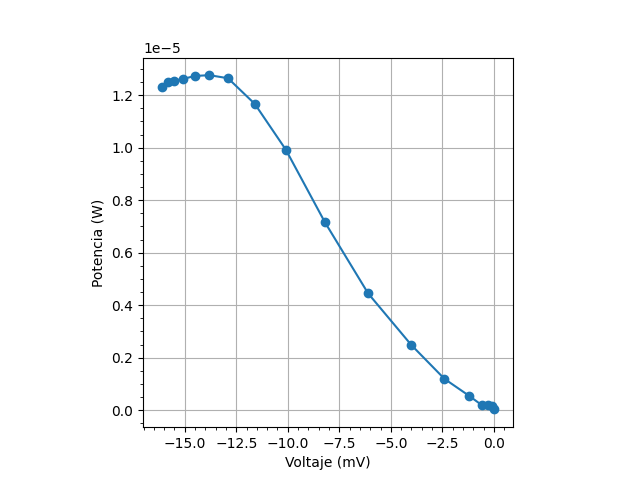
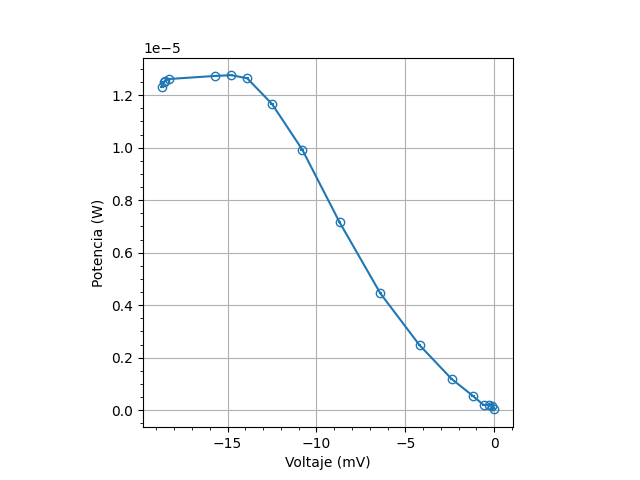
Fin lab P3

diff --git a/P3/P3.py b/P3/P3.py
@@ -3,45 +3,20 @@ import matplotlib.pyplot as plt
 from var import *
 from data_management import *
 
-M = """9829	38	120.5	4
-9664	44.9	108.2	3
-9308	39.1	107.6	3
-9004	54.3	127	3
-8731	44	123	3
-8425	65	121.7	2
-8202	52.5	112.7	2
-7984	70.8	105.2	1
-7763	59.2	96	1
-7586	42.1	123.6	2"""
+path = "P3/"
 
-"""
-M = text2dataframe(M)
-M = M.to_numpy()
-
-w = var(M[:,0], 1, "$\omega$", "MHz", str_format = "{:.1f}") # MHz
-w.redefine(lambda x: 2*np.pi*x[0])
-# w = f_var(lambda x: 2*np.pi*x[0], [f]) # 1e6 rad/s
-z_max = var(M[:,1], 0.2) # mm
-z_min = var(M[:,2], 0.2) # mm
-
-N = var(M[:,3], 0, str_format = "{:.0f}")
-
-# print(var2ipython_latex([w, z_min, z_max, N]).replace("\\", "\\\\"))
-print(var2ipython_latex([w, z_min, z_max, N]))
-"""
-
-M = """9	16.1	-19.09	0.01
-8.75	15.8	-19.03	0.01
-8.5	15.5	-19.01	0.01
-8.25	15.1	-18.99	0.01
-8	14.5	-18.95	0.01
-7.75	13.8	-18.94	0.01
-7.5	12.9	-18.98	0.01
-7.25	11.6	-19.33	0.01
-7	10.1	-20.03	0.01
-6.75	8.2	-21.45	0.03
-6.5	6.1	-23.52	0.03
-6.25	4	-26.06	0.03
+M = """9	18.7	-19.09	0.01
+8.75	18.6	-19.03	0.01
+8.5	18.5	-19.01	0.01
+8.25	18.3	-18.99	0.01
+8	15.7	-18.95	0.01
+7.75	14.8	-18.94	0.01
+7.5	13.9	-18.98	0.01
+7.25	12.5	-19.33	0.01
+7	10.8	-20.03	0.01
+6.75	8.7	-21.45	0.03
+6.5	6.4	-23.52	0.03
+6.25	4.2	-26.06	0.03
 6	2.4	-29.23	0.03
 5.75	1.2	-32.63	0.03
 5.5	0.6	-37	1
@@ -55,21 +30,23 @@ M = M.to_numpy()
 x = var(M[:,0], 0.01, "Posición atenuador", "u.a.")
 V = var(M[:,1], 0.1, "Voltaje", "mV")
 V.redefine(lambda x: -x[0])
-P_dB = var(M[:,2], M[:,3], "Potencia", "dbm")
-P = f_var(lambda x: 10**((x[0]/10)-3), [P_dB], "Potencia", "W")
+V.show()
+P_dB = var(M[:,2], M[:,3], "Potencia", "dBm")
+# P = f_var(lambda x: 10**((x[0]/10)-3), [P_dB], "Potencia", "W")
 
+delta_P = var(P_dB.err, 0, r"\Delta P", "dBm")
 print(var2ipython_latex([x, V, P_dB]))
 
 options = {"fitlm": False, "errors": True}
-plot_args = {"markerfacecolor": None}
+plot_args = {"markerfacecolor": "None", "capsize": 4}
 
-P.vs(V, options = options, plot_args = plot_args)
-plt.savefig("~P3/images/P_vs_V")
+# P.vs(V, options = options, plot_args = plot_args)
+# plt.savefig(path + "images/P_vs_V")
 # plt.show()
 
 plt.close()
 P_dB.vs(V, options = options, plot_args = plot_args)
-plt.savefig("~P3/images/PdBm_vs_V")
+plt.savefig(path + "images/PdBm_vs_V")
 # plt.show()
 
 # Parte 2
@@ -93,5 +70,82 @@ M = """9	42	42.1	0	0	0.6	0.5
 5	0.1	0.2	0	0	0	0
 4.75	0	0.1	0	0	0	0"""
 
-D32 = var(M[:,1], 0.1)
-D23 = var(M[:,2], 0.1)
+M = text2dataframe(M)
+M = M.to_numpy()
+
+V_D32 = var(M[:,1], 0.1, "V", "mV")
+V_D23 = var(M[:,2], 0.1, "V", "mV")
+V_D31 = var(M[:,3], 0.1, "V", "mV")
+V_D13 = var(M[:,4], 0.1, "V", "mV")
+V_D21 = var(M[:,5], 0.1, "V", "mV")
+V_D12 = var(M[:,6], 0.1, "V", "mV")
+
+
+plt.close()
+V_D32.vs(x, options = options, plot_args = plot_args)
+V_D23.vs(x, options = options, plot_args = plot_args)
+plt.savefig(path + "images/V_vs_atenuador")
+# plt.show()
+
+
+def interpol (x):
+    x_cal = V.value
+    y_cal = P_dB.value
+
+    if x < min(x_cal) or x > max(x_cal):
+        return min(x_cal)
+
+    for i in range(len(x_cal)):
+        if x > x_cal[i]:
+            x0 = x_cal[i-1]
+            y0 = y_cal[i-1]
+            x1 = x_cal[i]
+            y1 = y_cal[i]
+            break
+
+    return y0 + ((y1 - y0)/(x1-x0))*x
+
+# P_D32 = var([interpol(-xi) for xi in M[:,1] if xi < -min], 0, "P", "W")
+# P_D23 = var([interpol(-xi) for xi in M[:,2] if xi < 16], 0, "P", "W")
+
+P_dB.name = "Potencia de entrada"
+P_D32 = var([interpol(-xi) for xi in M[:,1]], 0, "Potencia de salida", "dBm")
+P_D23 = var([interpol(-xi) for xi in M[:,2]], 0, "Potencia de salida", "dBm")
+P_D31 = var([interpol(-xi) for xi in M[:,3]], 0, "Potencia de salida", "dBm")
+P_D13 = var([interpol(-xi) for xi in M[:,4]], 0, "Potencia de salida", "dBm")
+P_D21 = var([interpol(-xi) for xi in M[:,5]], 0, "Potencia de salida", "dBm")
+P_D12 = var([interpol(-xi) for xi in M[:,6]], 0, "Potencia de salida", "dBm")
+
+plt.close()
+P_D32.vs(x, options = options, plot_args = plot_args)
+P_D23.vs(x, options = options, plot_args = plot_args)
+# P_D31.vs()
+plt.savefig(path + "images/P_vs_atenuador")
+# plt.show()
+
+plt.close()
+ax = plt.gca()
+ax.set_title("Entrada en puerta 2")
+P_D21.vs(P_dB, options = options, plot_args = plot_args)
+P_D23.vs(P_dB, options = options, plot_args = plot_args)
+plt.savefig(path + "images/P_salida_vs_entrada_2")
+# plt.show()
+
+plt.close()
+ax = plt.gca()
+ax.set_title("Entrada en puerta 1")
+P_D12.vs(P_dB, options = options, plot_args = plot_args)
+P_D13.vs(P_dB, options = options, plot_args = plot_args)
+plt.savefig(path + "images/P_salida_vs_entrada_1")
+
+plt.close()
+ax = plt.gca()
+ax.set_title("Entrada en puerta 3")
+P_D31.vs(P_dB, options = options, plot_args = plot_args)
+P_D32.vs(P_dB, options = options, plot_args = plot_args)
+plt.savefig(path + "images/P_salida_vs_entrada_3")
+
+
+# Segundo cacharro ("El cilindricp")
+
+

diff --git a/P3/var.py b/P3/var.py
@@ -274,7 +274,7 @@ def var2ipython_latex(variables):
     template += "\t" + " & ".join(["\\textbf{" + v.name + "} (" + v.units + ")" for v in variables]) + " \\\\ \n"
 
     # template += "\t\\bottomrule \\toprule \n"
-    print(variables[-1].value)
+    # print(variables[-1].value)
     for i in range(variables[-1].value.size):
         template += "\t" + " & ".join([v.str_format.format(v.value[i]) for v in variables]) + " \\\\ \n"
 